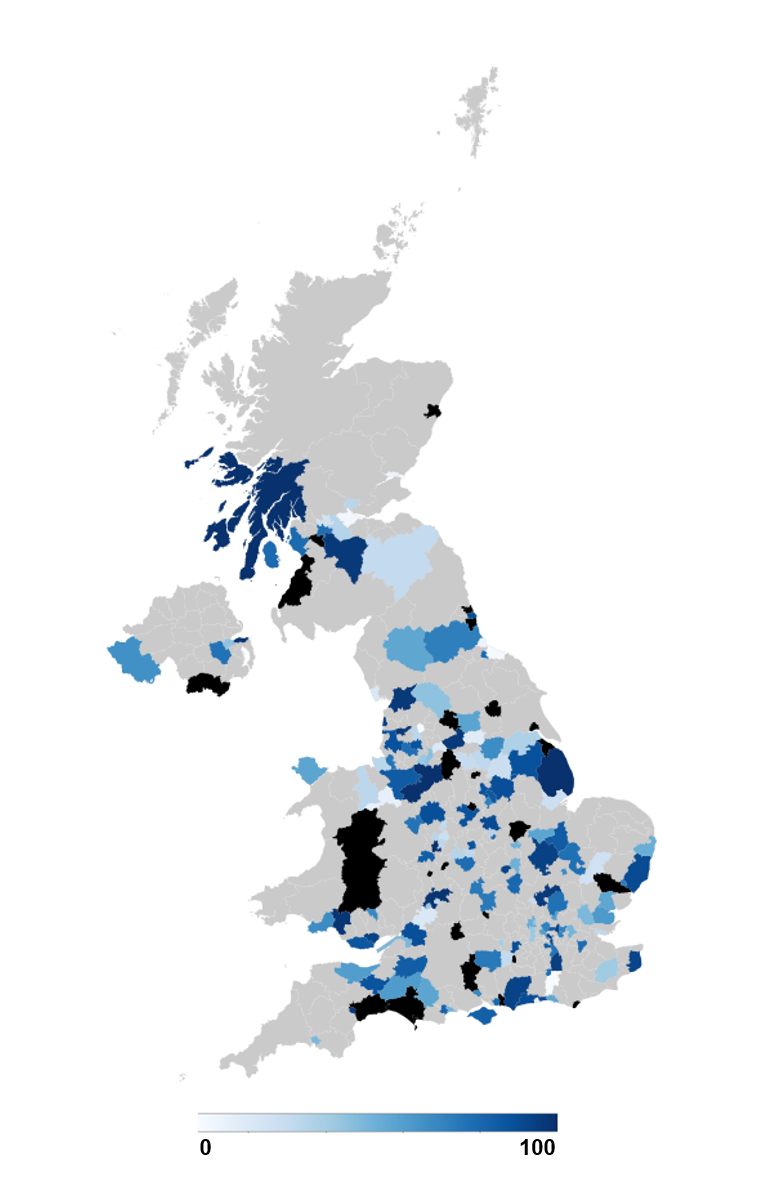
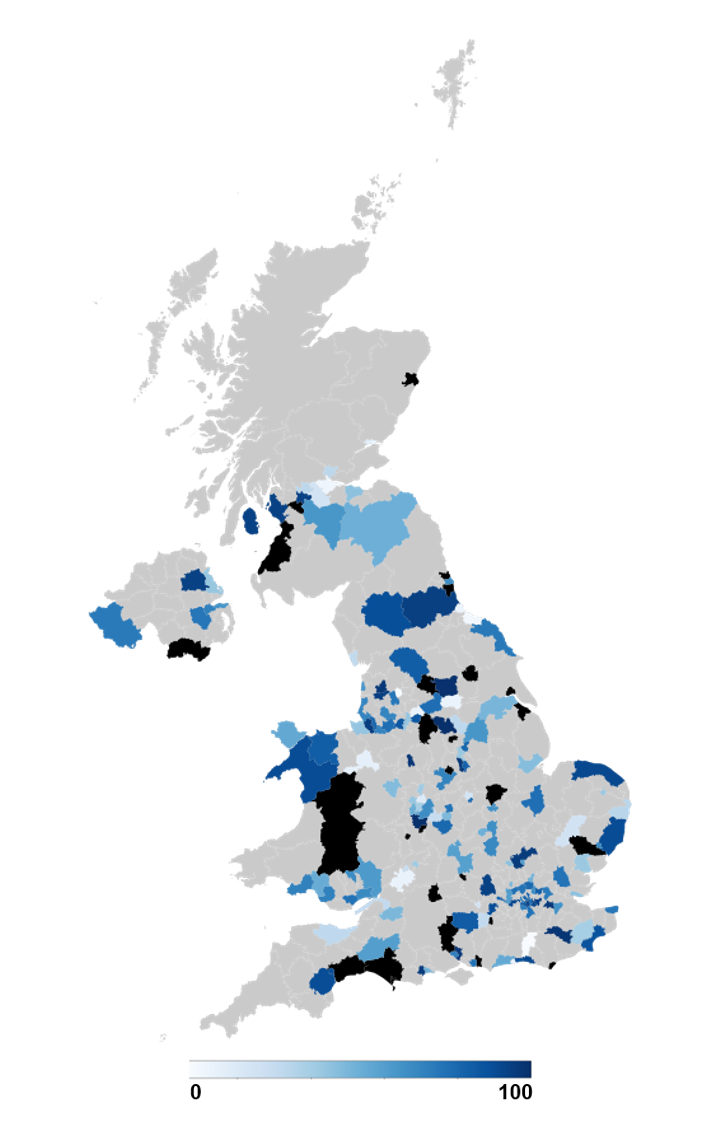
Initial plots and analysis - part 2

Changed region(s): [[0.1219, 0.1556, 0.8837, 0.9956], [0.6094, 0.0311, 0.6704, 0.1244], [0.3047, 0.7467, 0.3657, 0.8089]]

diff --git a/index.md b/index.md
@@ -46,50 +46,63 @@ Note that this timeline is not meant to be complete, but is only an indication o
 We are assesing the citizen mobility pattern using ..
 Add a lay description of the radius of gyration.
 
-We are usign three weeks of January as baseline to study the chaning in mobility....
 
-
-## The Analsysis
+## The Analysis
 
 ### Baseline Jannuary 2020
 
+To establish a baseline for comparison, we combined the average mobility patterns of days period used was from 7 to 23 of January of 2020. This period was before the spread of the COVID-19 in the UK and do not contains holidays of other events which could affect the mobility of people. The baseline is the median of the radius of gyration of places in the UK in the period specified and it is depicted in <b>Figure 1 (A)</b>. As an example of a comparison between the baseline and another day, we selected the 25th of February and showed the comparison result in <b>Figure 1 (B)</b>. As can be noticed in this figure, in that day the radius increased or not changed in the majority of the regions of the Uk.
+
+<br>
 <p align="center">
-<img src="plots/uk_baseline.png" width="250">
-<img src="plots/uk_reduc_25_02.png" width="250">
+<img src="plots/uk_baseline.png" width="350">
+&nbsp&nbsp&nbsp
+<img src="plots/uk_reduc_25_02.png" width="350">
 </p>
 
+<p align="center"> <b>Figure 1.</b> (A) Representation of the radius of gyration of the baseline in a logarithmic scale where the reddish is the colour the means greater is the radius. (B) Comparison of the baseline to the 25th of February. The blue areas represent spaces where the radius of gyration decreased, while in grey areas the radius increased or not changed when compared to the baseline.</p>
 
-maps of uk and comments
 
 ### 12th March 2020
 
+The number of confirmed cases in the UK was around five hundred by the 12th of March and the Chief of the Medical Office advised cancel school trips and recommend people with symptoms (fever of dry continuous cough) to self isolate for seven days. <b>Figure 2</b> illustrates the comparison between this day and the baseline. As can be noticed, we can see a rise in the number of regions whose radius of gyration decreased (when compared to the 25th of February). However, we still have an elevated number of places where the mobility was not affected or even increased.
+<br>
 <p align="center">
-<img src="plots/uk_reduc_12_03.png" width="250">
+<img src="plots/uk_reduc_12_03.png" width="350">
 </p>
 
-maps of uk and comments
+<p align="center"> <b>Figure 2.</b> Comparison between the baseline and the 12th of March 2020.
 
 ### 23 March 2020
 
+In the 23thd of March, the UK registered more than 6500 confirmed cases of COVID-19 and over 300 deaths. <b>Figure 3</b> shows the changes in the radius of gyration on this date. As illustrated by this figure, differently to the other two scenarios, now we can observe a reduction of the radios in almost all the regions of the UK. This can be related to the measures announced to slow down the transmission of the virus. One of these measures was the recommendation of working from home which could lead to a reduction in the mobility patterns of the population observed.
+<br>
 <p align="center">
-<img src="plots/uk_reduc_23_03.png" width="250">
+<img src="plots/uk_reduc_23_03.png" width="350">
 </p>
+
+<p align="center"><b>Figure 3.</b> Comparison between the radius of gyration of areas in the UK on the 23thd of March 2020 and the baseline.
 
 maps of uk and comments
 
 
 ### 01 April 2020
 
+<Figure 4> shows the UK scenario on the 01st of April 2020. In this date, the total number of confirmed cases was 29.474 with 2352 deaths and, as can be observed in the map, a similar situation to the 23thd is depicted where most of the areas present a reduction on the radius of gyration.
+
+<br>
 <p align="center">
-<img src="plots/uk_reduc_01_04.png" width="250">
+<img src="plots/uk_reduc_01_04.png" width="350">
 </p>
 
-maps of uk and comments
+<p align="center"><b>Figure 4.</b> Comparison between the radius of gyration of areas in the UK on the 01st of April 2020 and the baseline.
+
 
 ### The Trend of UK
 
+<br>
 <p align="center">
-<img src="plots/series_01_03_01_04.png" width="500">
+<img src="plots/series_01_03_01_04.png" width="600">
 </p>
 
 image on the general trend ENG, SCO, WALL, NI with the time line we proposed.
@@ -97,22 +110,30 @@ image on the general trend ENG, SCO, WALL, NI with the time line we proposed.
 
 ### Comparison Mobility Before and After Mobility Restrictions
 
+<br>
 <p align="center">
 <img src="plots/radious_weeks_uk.png" width="800">
 </p>
 
+
+<br>
 <p align="center">
 <img src="plots/radious_weeks_en.png" width="800">
 </p>
 
+
+<br>
 <p align="center">
 <img src="plots/radious_weeks_nl.png" width="800">
 </p>
 
+
+<br>
 <p align="center">
 <img src="plots/radious_weeks_sc.png" width="800">
 </p>
 
+<br>
 <p align="center">
 <img src="plots/radious_weeks_wa.png" width="800">
 </p>
